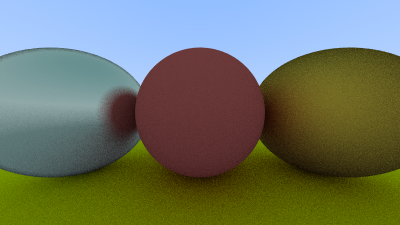
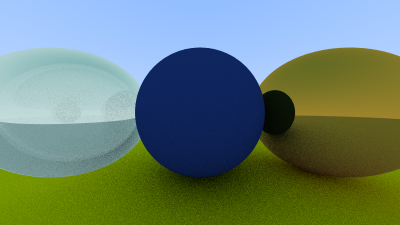
11. Dielectrics

diff --git a/src/main/kotlin/Material.kt b/src/main/kotlin/Material.kt
@@ -1,16 +1,21 @@
 import Vec3.Companion.dot
+import Vec3.Companion.randomDouble
 import Vec3.Companion.randomUnitVector
 import Vec3.Companion.reflect
+import Vec3.Companion.refract
 import Vec3.Companion.unitVector
 import Vec3.Companion.times
+import kotlin.math.min
+import kotlin.math.pow
+import kotlin.math.sqrt
 
 interface Material {
     fun scatter(rIn: Ray, rec: HitRecord, attenuation: MutableList<Color>, scattered: MutableList<Ray>): Boolean
 }
 
-class Lambertian(val albedo: Color) : Material {
+class Lambertian(private val albedo: Color) : Material {
     override fun scatter(rIn: Ray, rec: HitRecord, attenuation: MutableList<Color>, scattered: MutableList<Ray>): Boolean {
-        var scatterDirection = rec.normal + Vec3.randomUnitVector()
+        var scatterDirection = rec.normal + randomUnitVector()
 
         //Catch degenerate scatter directions
         if(scatterDirection.nearZero()) {
@@ -31,5 +36,29 @@ class Metal(private val albedo: Color, f: Double) : Material {
         attenuation[0] = albedo
         return (dot(scattered[0].direction, rec.normal) > 0)
     }
+}
 
+class Dielectric(private val ir: Double): Material {
+    override fun scatter(rIn: Ray, rec: HitRecord, attenuation: MutableList<Color>, scattered: MutableList<Ray>): Boolean {
+        attenuation[0] = Color(1.0, 1.0, 1.0)
+        val refractionRatio = if(rec.frontFace) (1.0 / ir) else ir
+
+        val unitDirection = unitVector(rIn.direction)
+        val cosTheta = min(dot(-unitDirection, rec.normal), 1.0)
+        val sinTheta = sqrt(1.0 - cosTheta * cosTheta)
+
+        val cannotRefract = refractionRatio * sinTheta > 1.0
+
+        val direction = if(cannotRefract || reflectance(cosTheta, refractionRatio) > Math.random()) reflect(unitDirection, rec.normal) else refract(unitDirection, rec.normal, refractionRatio)
+
+        scattered[0] = Ray(rec.p, direction)
+        return true
+    }
+
+    private fun reflectance(cosine: Double, refIdx: Double): Double {
+        // Use Schlick's approximation for reflectance.
+        var r0 = (1-refIdx) / (1+refIdx)
+        r0 *= r0
+        return r0 + (1-r0) * (1 - cosine).pow(5.0)
+    }
 }

diff --git a/src/main/kotlin/Vec3.kt b/src/main/kotlin/Vec3.kt
@@ -1,9 +1,9 @@
 import kotlin.math.abs
+import kotlin.math.min
 import kotlin.math.sqrt
 
 class Vec3(var x: Double, var y: Double, var z: Double) {
     constructor() : this(0.0, 0.0, 0.0)
-    constructor(x: Int, y: Int, z: Int) : this(x.toDouble(), y.toDouble(), z.toDouble())
     operator fun unaryMinus() = Vec3(-x, -y, -z)
     operator fun get(i: Int) = when(i) {
         1 -> x
@@ -64,6 +64,12 @@ class Vec3(var x: Double, var y: Double, var z: Double) {
             else -onUnitSphere
         }
         fun reflect(v: Vec3, n: Vec3) = v - 2 * dot(v, n) * n
+        fun refract(uv: Vec3, n: Vec3, etaiOverEtat: Double): Vec3 {
+            val cosTheta = min(dot(-uv, n), 1.0)
+            val rOutPerpendicular = etaiOverEtat * (uv + cosTheta * n)
+            val rOutParallel = -sqrt(abs(1.0 - rOutPerpendicular.lengthSquared())) * n
+            return rOutPerpendicular + rOutParallel
+        }
         operator fun Color.times(c: Color) = (this.toVec3() * c.toVec3()).toColor()
         operator fun Double.times(v: Vec3) = v * this
         operator fun Double.times(c: Color) = (c.toVec3() * this).toColor()

diff --git a/src/main/kotlin/Camera.kt b/src/main/kotlin/Camera.kt
@@ -2,9 +2,7 @@ import Vec3.Companion.times
 import Vec3.Companion.unitVector
 import java.awt.image.BufferedImage
 import java.io.File
-import java.util.stream.IntStream
 import javax.imageio.ImageIO
-import kotlin.coroutines.coroutineContext
 import kotlin.math.max
 
 class Camera {
@@ -30,7 +28,7 @@ class Camera {
     fun render(world: Hittable) {
         initialize()
 
-        print("P3\n$imageWidth $imageHeight\n255\n")
+//        print("P3\n$imageWidth $imageHeight\n255\n")
 
         for(j in 0..<imageHeight) {
             for(i in 0..<imageWidth) {
@@ -39,7 +37,7 @@ class Camera {
                     val r = getRay(i, j)
                     pixelColor += rayColor(r, maxDepth, world)
                 }
-                Color.writeColor(pixelColor, samplesPerPixel)
+//                Color.writeColor(pixelColor, samplesPerPixel)
                 image?.setRGB(i, j, Color.intRGB((pixelColor.toVec3() / samplesPerPixel.toDouble()).toColor()))
             }
         }

diff --git a/src/main/kotlin/Raytracer.kt b/src/main/kotlin/Raytracer.kt
@@ -2,13 +2,14 @@ fun main() {
     val world = HittableList()
 
     val materialGround = Lambertian(Color(0.8, 0.8, 0.0))
-    val materialCenter = Lambertian(Color(0.7, 0.3, 0.3))
-    val materialLeft   = Metal(Color(0.8, 0.8, 0.8), 0.3)
-    val materialRight  = Metal(Color(0.8, 0.6, 0.2), 1.0)
+    val materialCenter = Lambertian(Color(0.1, 0.2, 0.5))
+    val materialLeft   = Dielectric(1.5)
+    val materialRight  = Metal(Color(0.8, 0.6, 0.2), 0.0)
 
     world.add(Sphere(Vec3( 0.0, -100.5, -1.0), 100.0, materialGround))
     world.add(Sphere(Vec3( 0.0,    0.0, -1.0),   0.5, materialCenter))
     world.add(Sphere(Vec3(-1.0,    0.0, -1.0),   0.5, materialLeft))
+    world.add(Sphere(Vec3(-1.0,    0.0, -1.0),  -0.4, materialLeft))
     world.add(Sphere(Vec3( 1.0,    0.0, -1.0),   0.5, materialRight))
 
     val cam = Camera()

diff --git a/src/main/kotlin/HittableList.kt b/src/main/kotlin/HittableList.kt
@@ -1,9 +1,5 @@
 class HittableList : Hittable {
-    val objects = mutableListOf<Hittable>()
-
-    fun clear() {
-        objects.clear()
-    }
+    private val objects = mutableListOf<Hittable>()
 
     fun add(thing: Hittable) {
         objects.add(thing)
